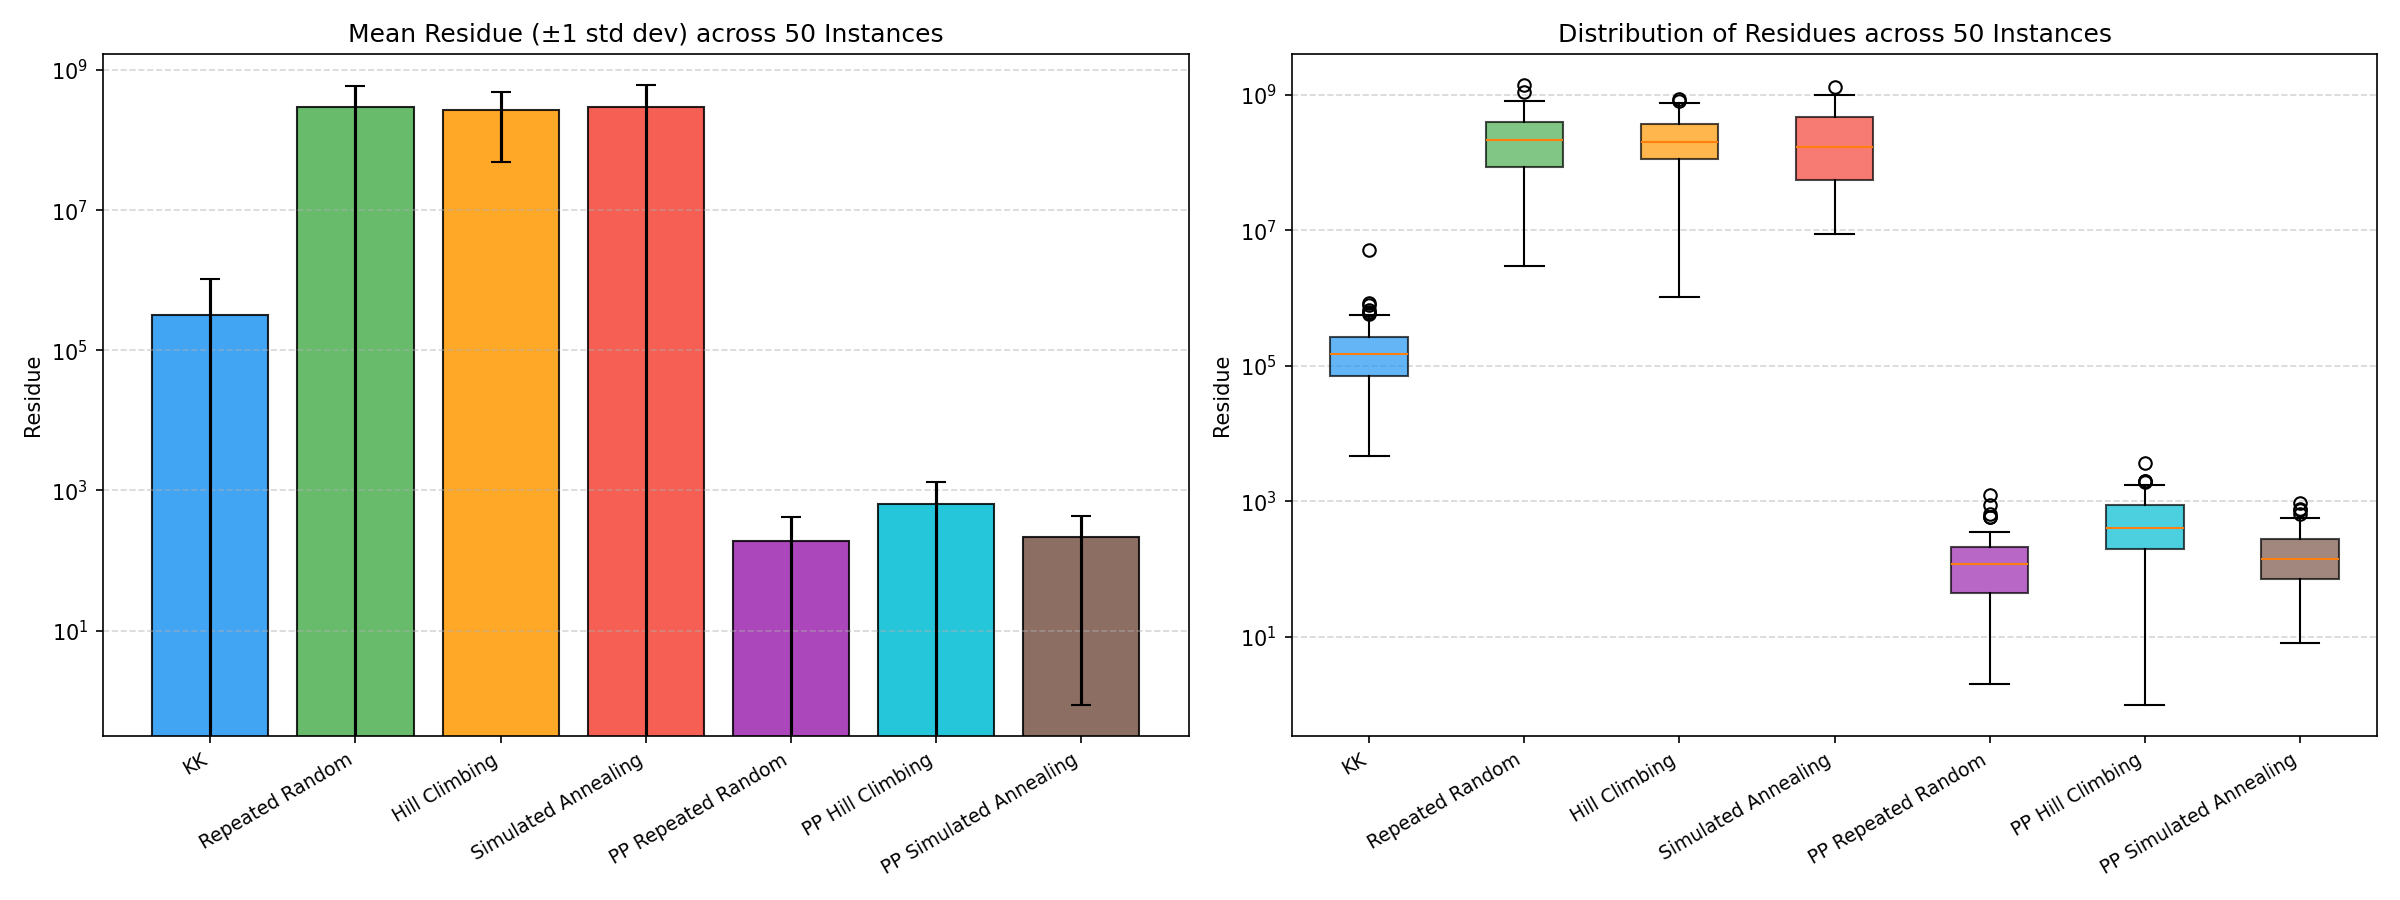
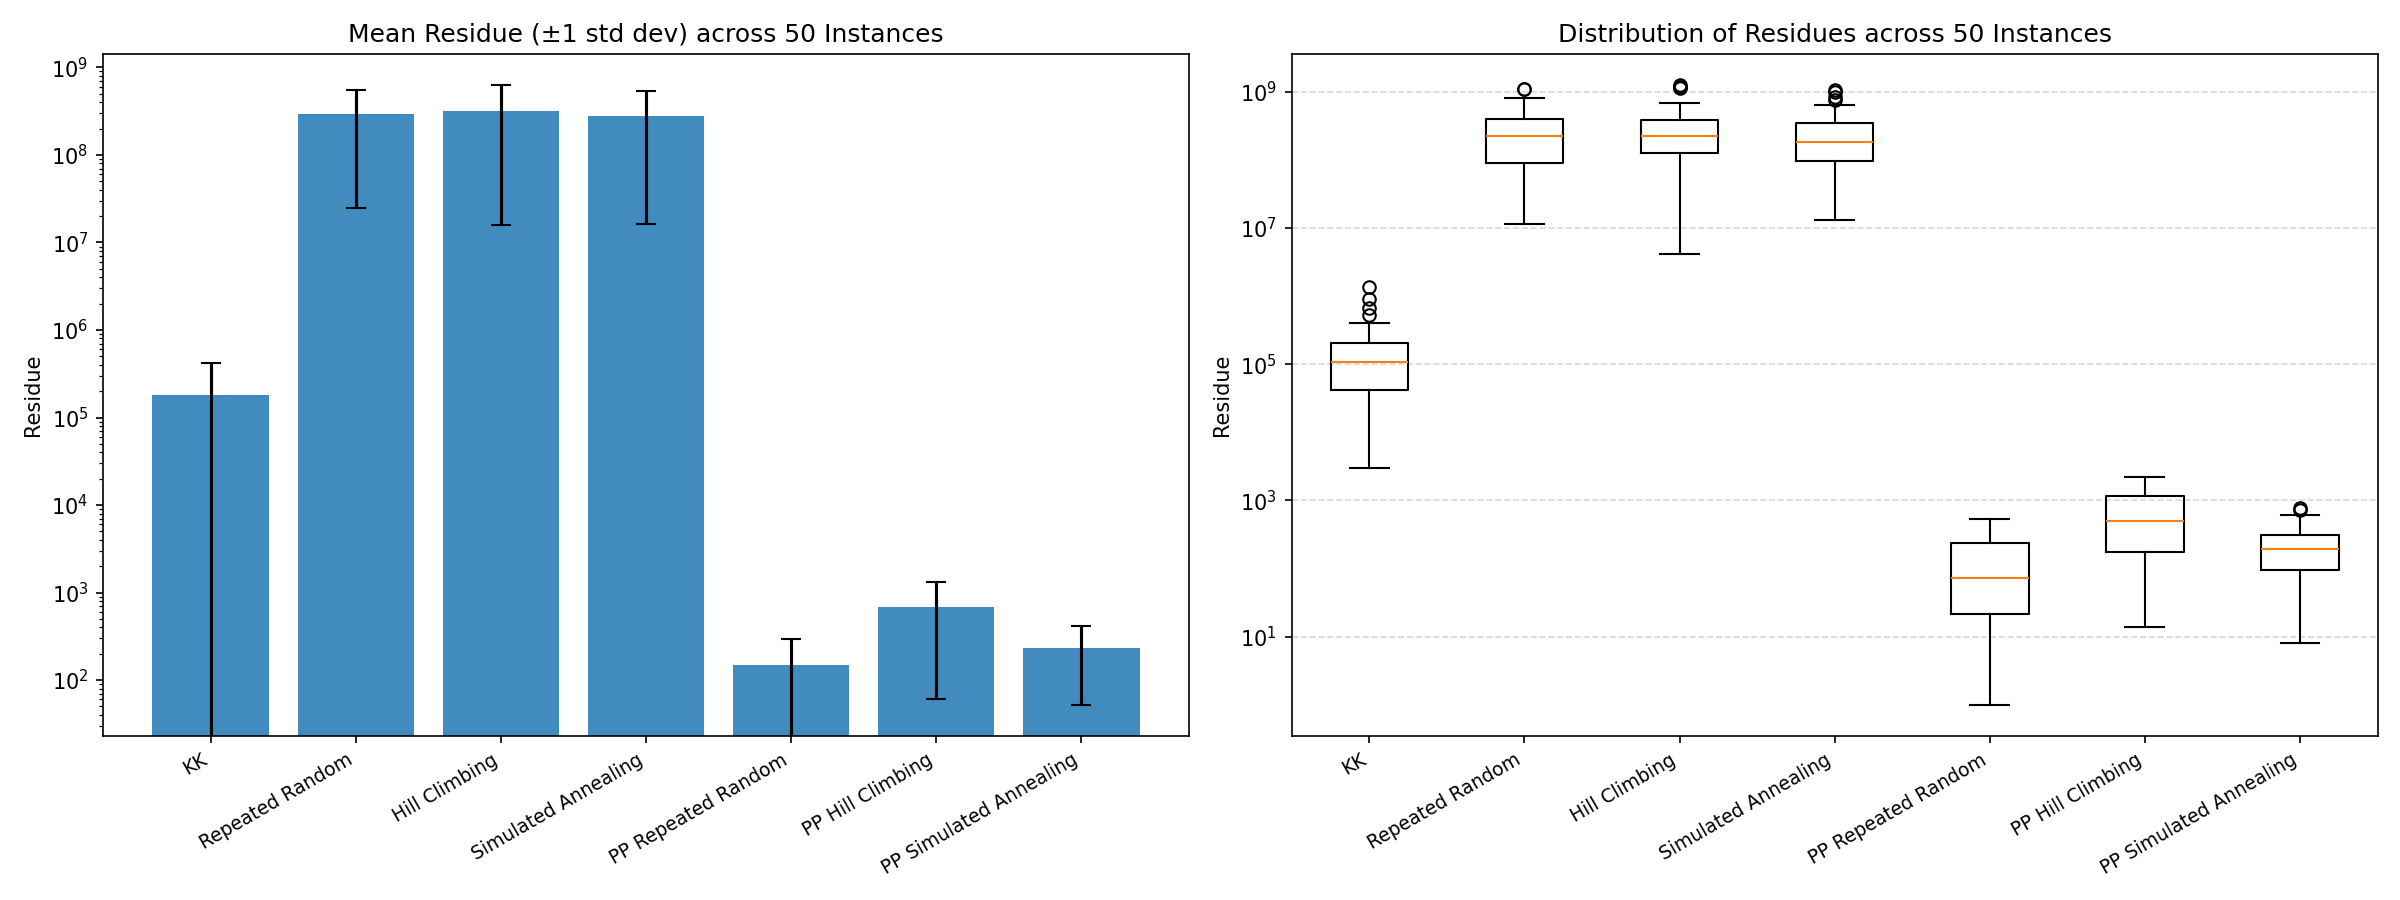
fixed experiments and now it's heap

diff --git a/pset3/experiments.py b/pset3/experiments.py
@@ -8,7 +8,7 @@ summary tables + a comparison plot.
 import random
 import statistics
 import csv
-from pset3.partition import (
+from partition import (
     karmarkar_karp,
     repeated_random,
     hill_climbing,
@@ -93,6 +93,7 @@ def plot_results(results):
     try:
         import matplotlib.pyplot as plt
         import numpy as np
+        import statistics
     except ImportError:
         print("\n(matplotlib not available — skipping plot)")
         return
@@ -104,25 +105,17 @@ def plot_results(results):
     # ── Bar chart of means ──────────────────────────────────────────
     fig, axes = plt.subplots(1, 2, figsize=(16, 6))
 
-    colors = ["#2196F3", "#4CAF50", "#FF9800", "#F44336",
-              "#9C27B0", "#00BCD4", "#795548"]
-
     x = np.arange(len(names))
-    bars = axes[0].bar(x, means, yerr=stds, capsize=5,
-                       color=colors, alpha=0.85, edgecolor="black")
+    bars = axes[0].bar(x, means, yerr=stds, capsize=5, alpha=0.85)
     axes[0].set_xticks(x)
     axes[0].set_xticklabels(names, rotation=30, ha="right", fontsize=9)
     axes[0].set_ylabel("Residue")
     axes[0].set_title("Mean Residue (±1 std dev) across 50 Instances")
     axes[0].set_yscale("log")
-    axes[0].yaxis.grid(True, which="both", linestyle="--", alpha=0.5)
 
-    # ── Box plot ────────────────────────────────────────────────────
+    # ── Box plot (no colors) ────────────────────────────────────────
     data = [results[n] for n in names]
-    bp = axes[1].boxplot(data, patch_artist=True, notch=False)
-    for patch, color in zip(bp["boxes"], colors):
-        patch.set_facecolor(color)
-        patch.set_alpha(0.7)
+    axes[1].boxplot(data, notch=False)
     axes[1].set_xticks(range(1, len(names) + 1))
     axes[1].set_xticklabels(names, rotation=30, ha="right", fontsize=9)
     axes[1].set_ylabel("Residue")
@@ -134,7 +127,6 @@ def plot_results(results):
     plt.savefig("results_plot.png", dpi=150)
     print("Saved plot to results_plot.png")
     plt.show()
-
 if __name__ == "__main__":
     print("Running experiments — this may take a few minutes...")
     results = run_experiments()

diff --git a/pset3/partition.py b/pset3/partition.py
@@ -1,18 +1,81 @@
 import sys
 import random
-import heapq
 import math
  
 MAX_ITER = 25000
 
+# HEAP IMPLEMENTATION
+
+class MaxHeap:
+    def __init__(self):
+        self.data = []
+
+    def push(self, value):
+        self.data.append(value)
+        self._bubble_up(len(self.data) - 1)
+
+    def pop(self):
+        if not self.data:
+            raise IndexError("pop from empty heap")
+
+        root = self.data[0]
+        last = self.data.pop()
+
+        if self.data:
+            self.data[0] = last
+            self._bubble_down(0)
+
+        return root
+
+    def build_heap(self, values):
+        self.data = list(values)
+        for i in range((len(self.data) // 2) - 1, -1, -1):
+            self._bubble_down(i)
+
+    def _bubble_up(self, i):
+        while i > 0:
+            parent = (i - 1) // 2
+            if self.data[i] > self.data[parent]:
+                self.data[i], self.data[parent] = self.data[parent], self.data[i]
+                i = parent
+            else:
+                break
+
+    def _bubble_down(self, i):
+        n = len(self.data)
+        while True:
+            left = 2 * i + 1
+            right = 2 * i + 2
+            largest = i
+
+            if left < n and self.data[left] > self.data[largest]:
+                largest = left
+            if right < n and self.data[right] > self.data[largest]:
+                largest = right
+
+            if largest == i:
+                break
+
+            self.data[i], self.data[largest] = self.data[largest], self.data[i]
+            i = largest
+
+    def __len__(self):
+        return len(self.data)
+
+    def is_empty(self):
+        return len(self.data) == 0
+
+
 def karmarkar_karp(A):
-    heap = [-a for a in A]         
-    heapq.heapify(heap)
+    heap = MaxHeap()
+    heap.build_heap(A)
+
     while len(heap) > 1:
-        a1 = -heapq.heappop(heap)
-        a2 = -heapq.heappop(heap)
-        heapq.heappush(heap, -(abs(a1 - a2)))
-    return abs(heap[0])
+        a1 = heap.pop()
+        a2 = heap.pop()
+        heap.push(abs(a1 - a2))
+
+    return 0 if heap.is_empty() else heap.pop()
 
 # residue helper
 
